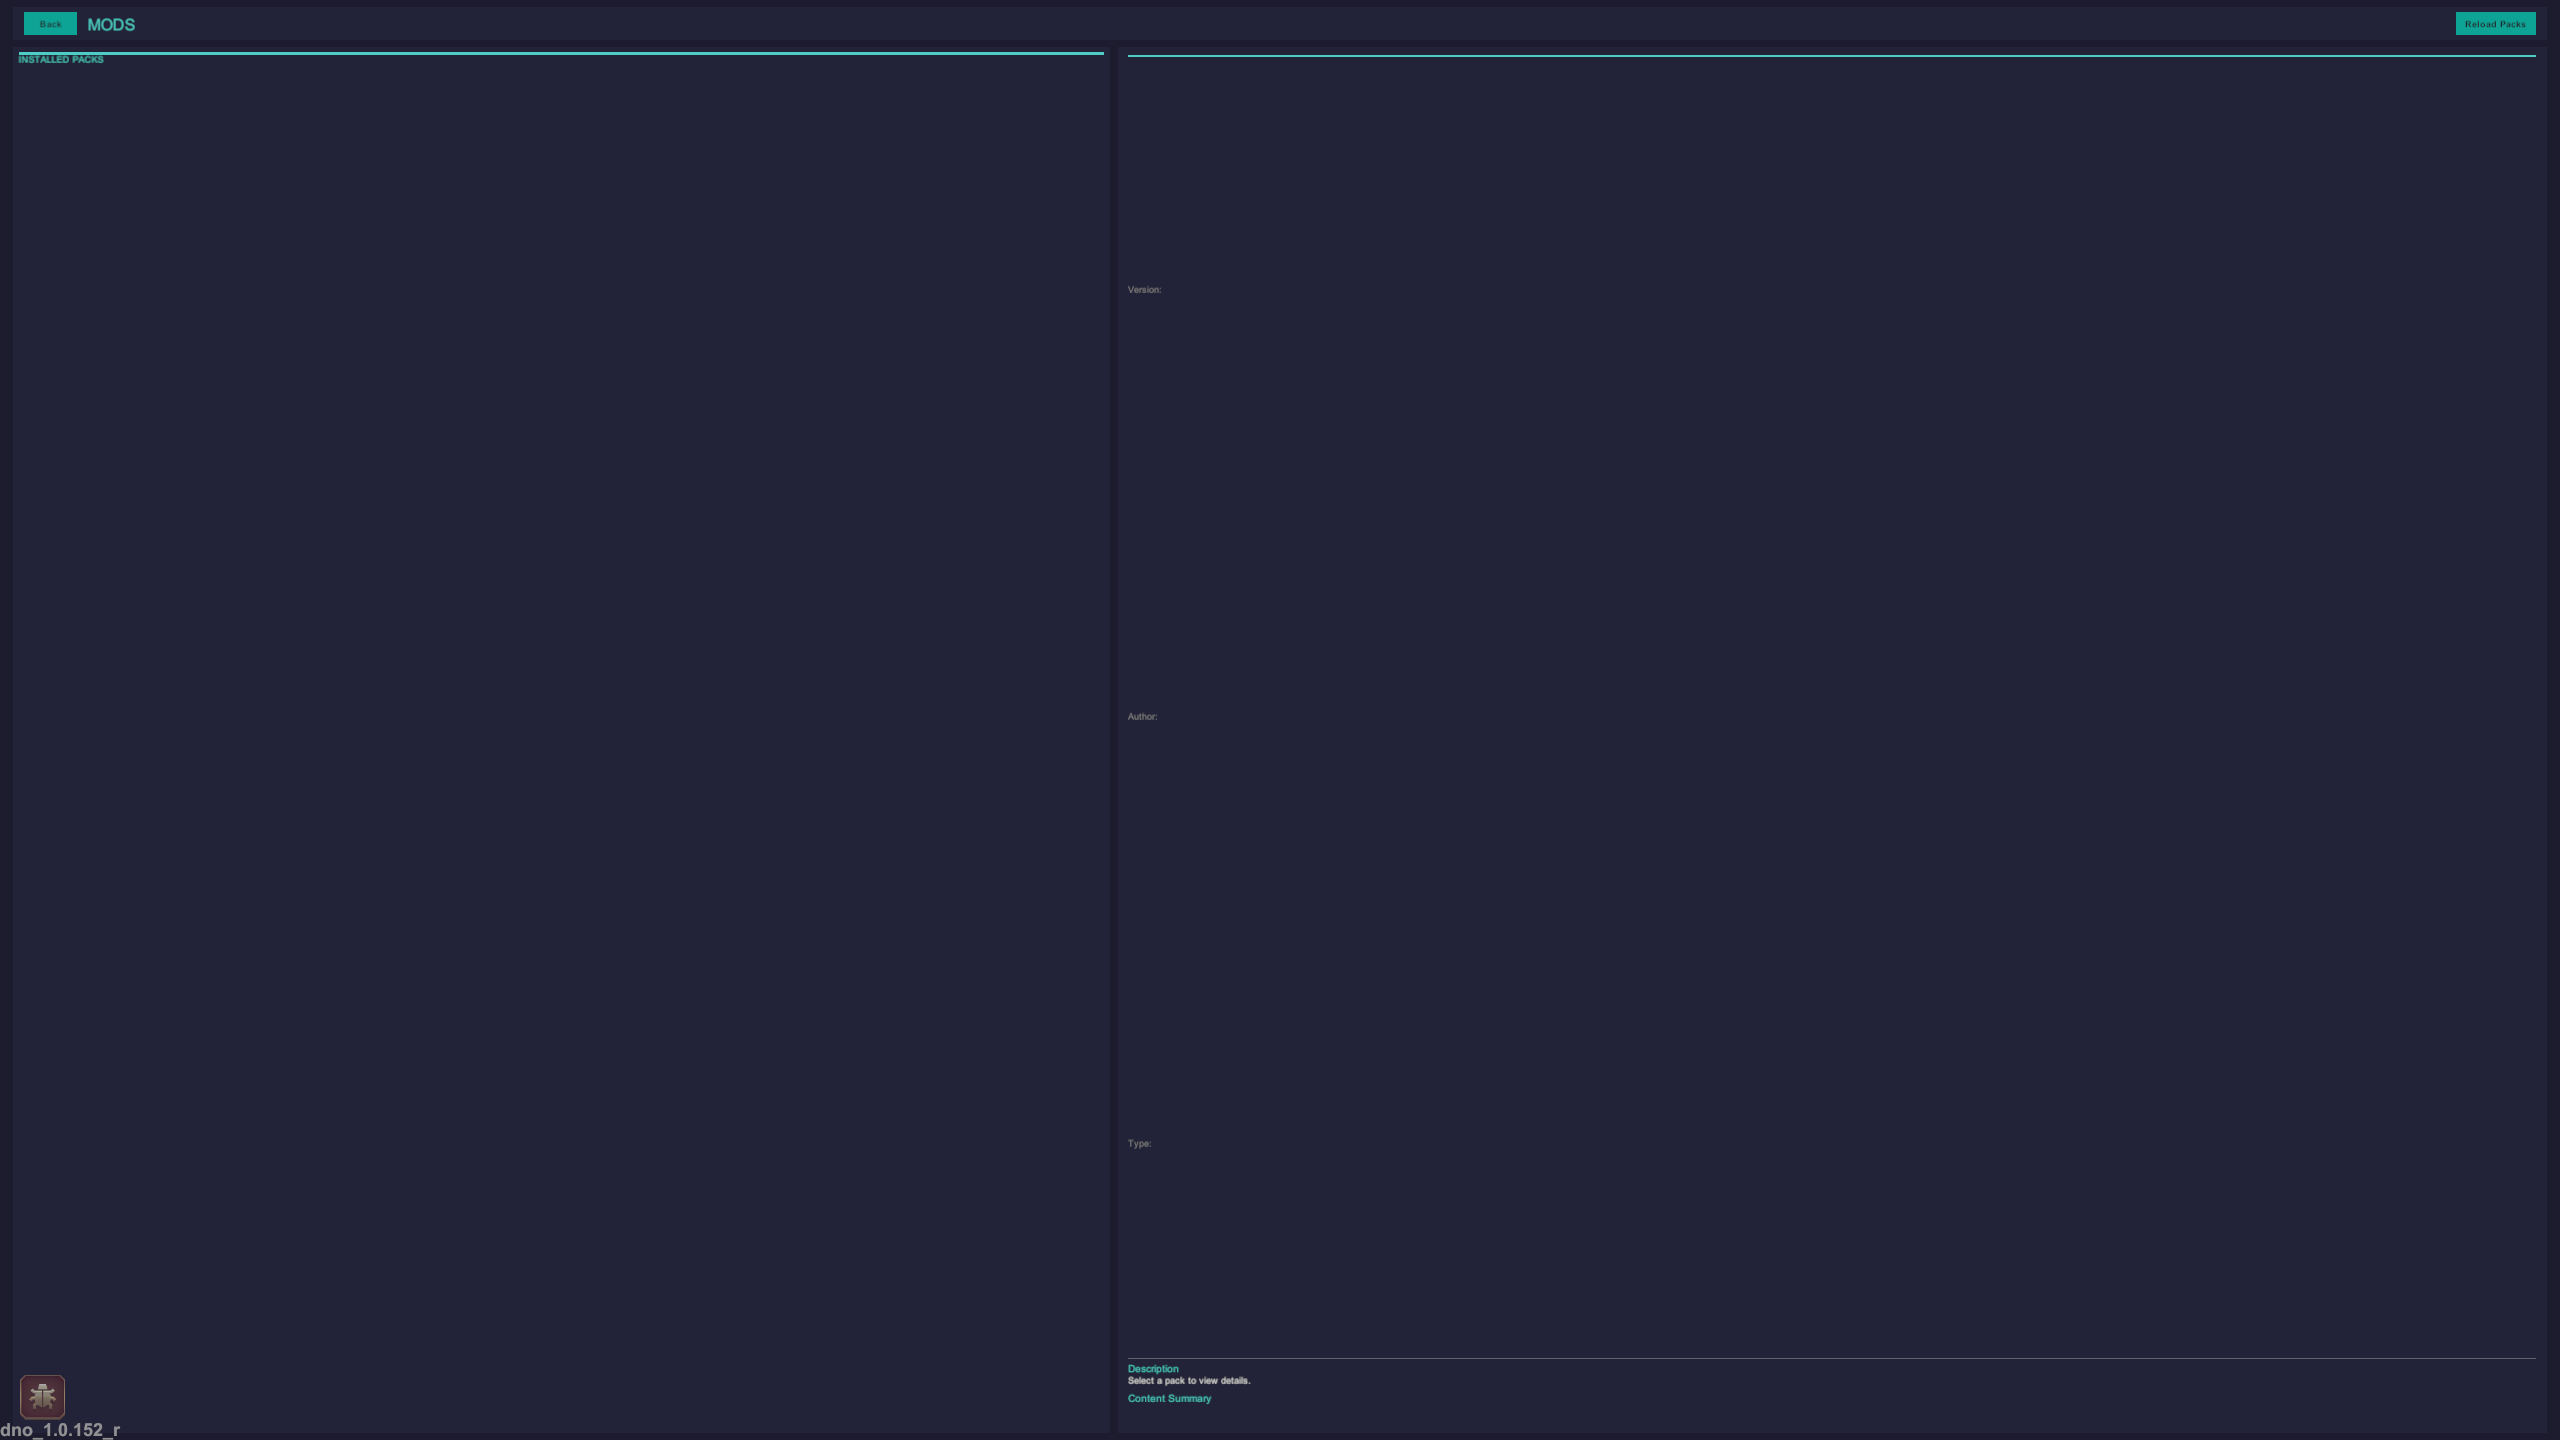
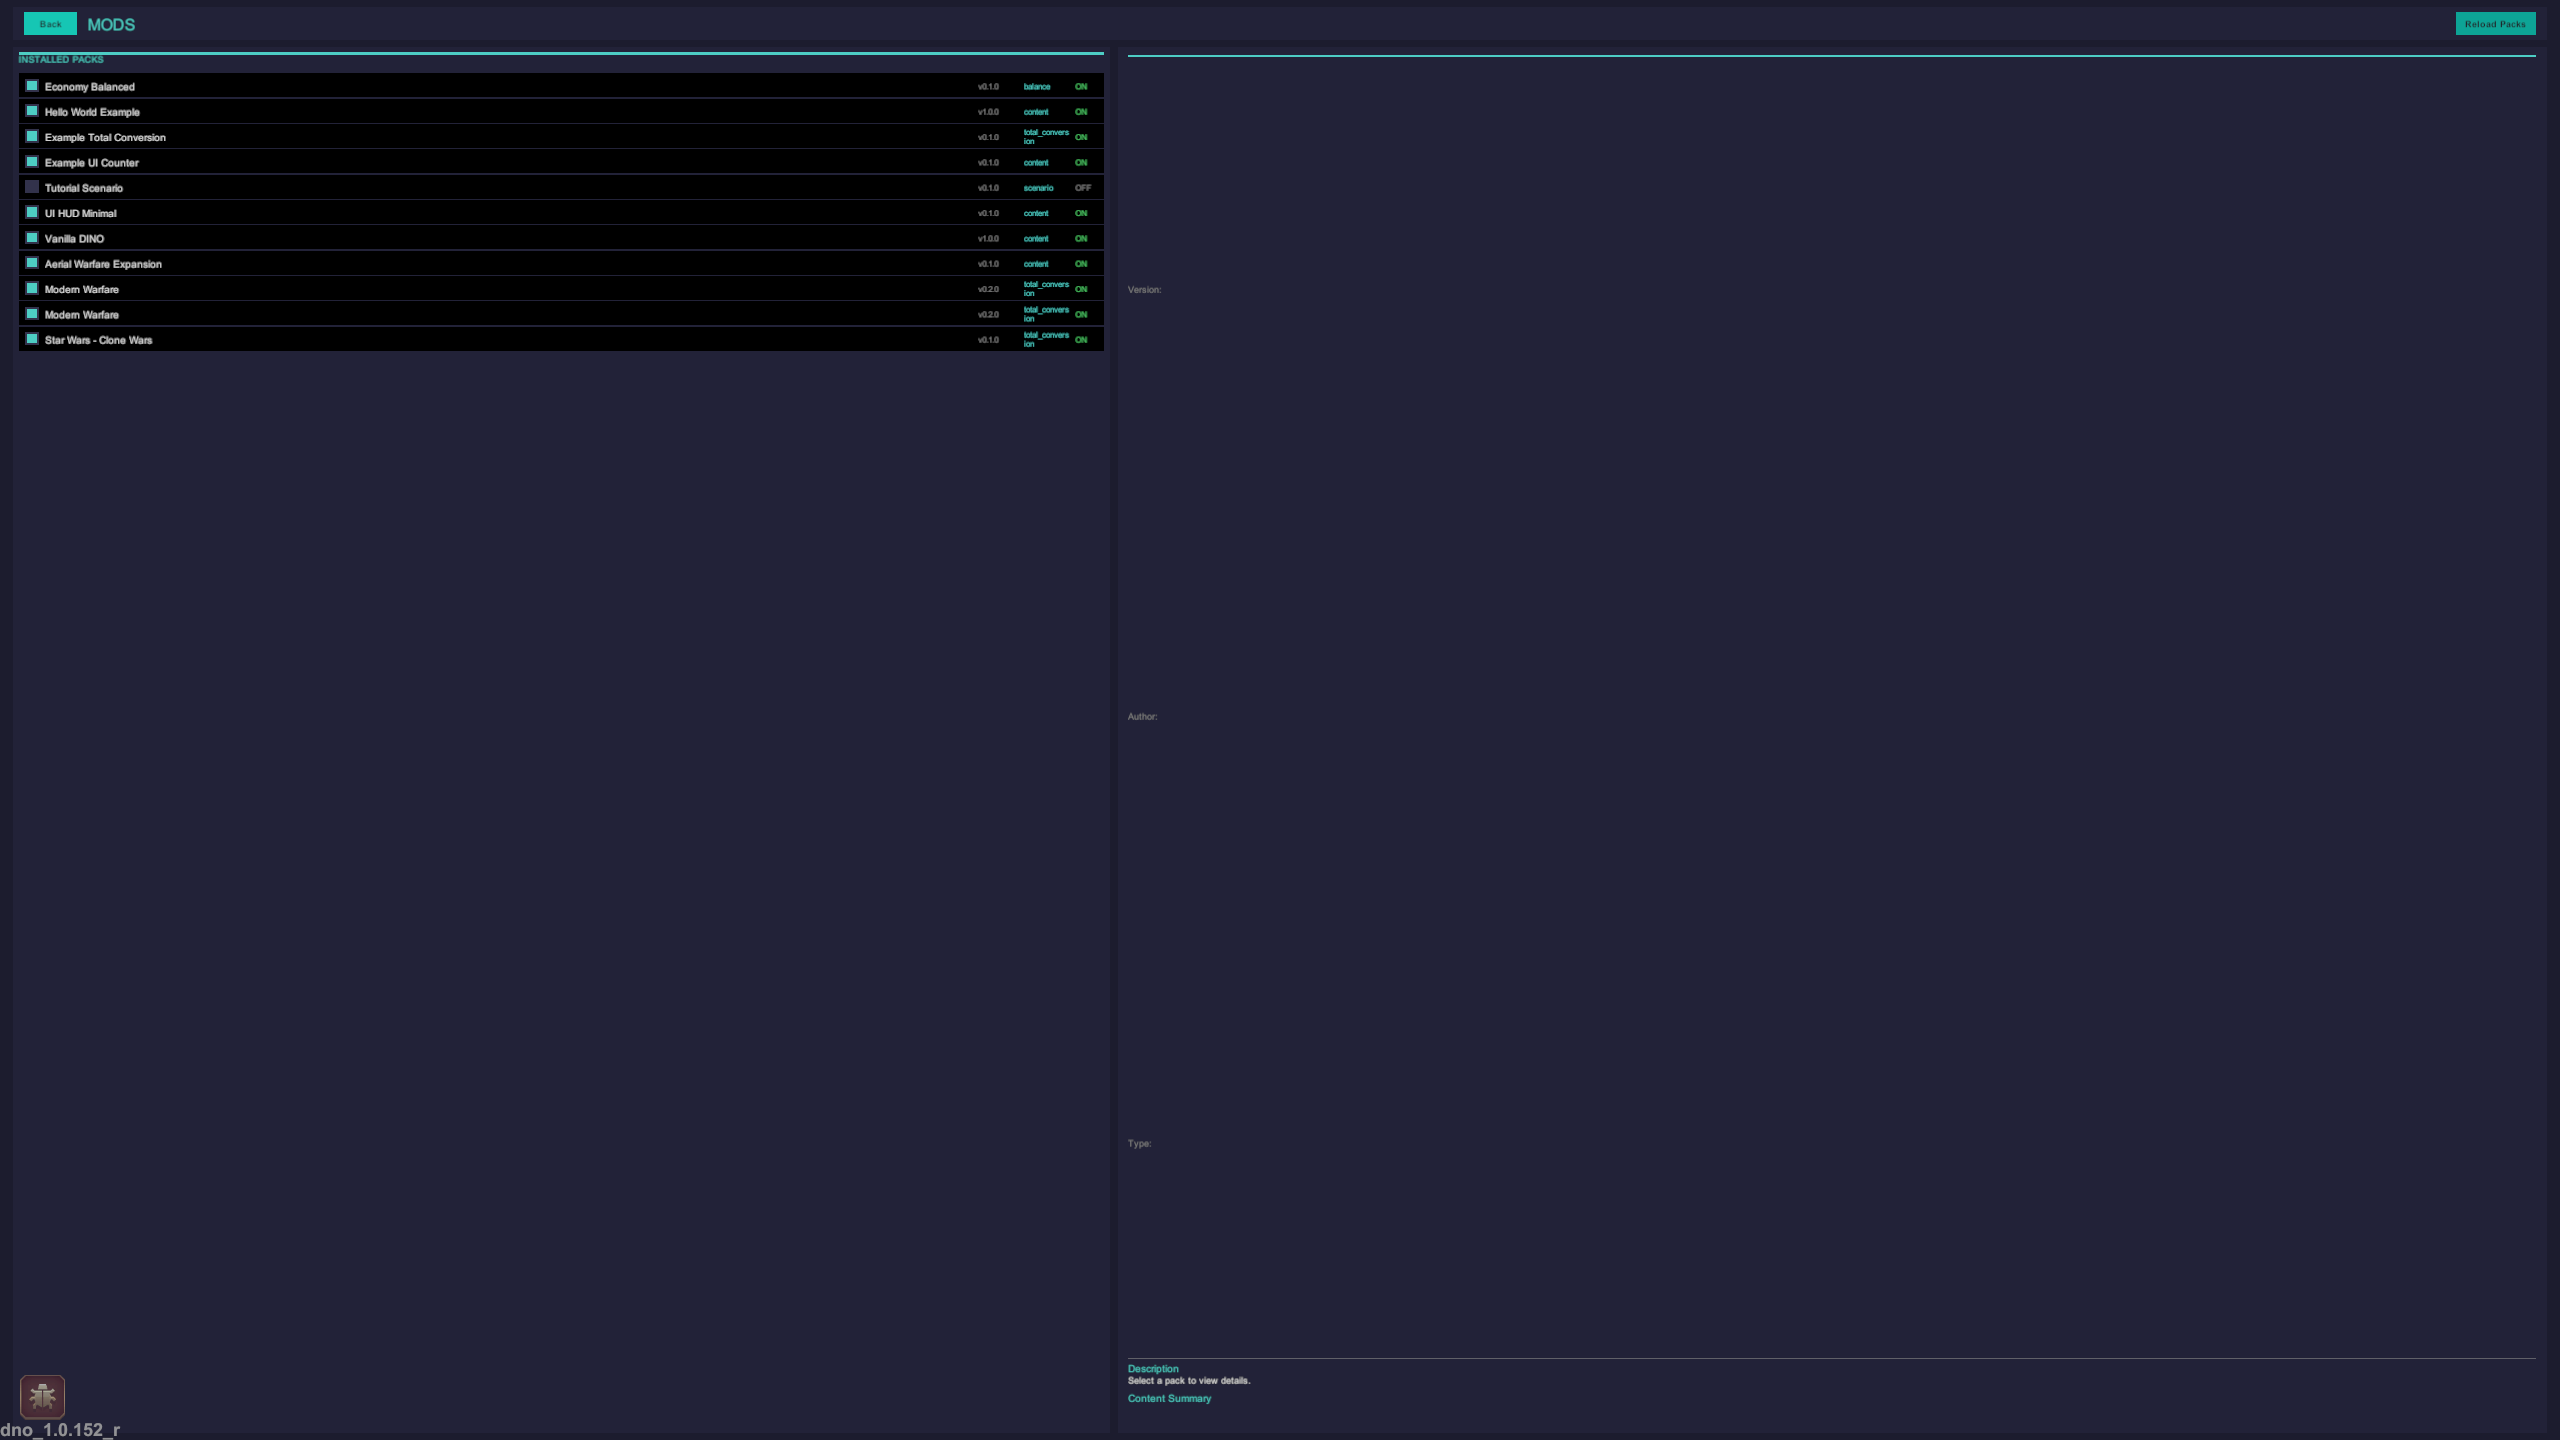
fix(ui): F9 debug panel blank body — viewport Mask stencil from transparent Image
The DebugPanel scroll viewport used a fully-transparent (alpha 0) Image with a
Mask. On the game's Mono build this produced an empty stencil that masked out
every child, so the panel rendered header-only with a blank body even though the
section content existed in the hierarchy. Give the viewport a near-invisible
alpha (0.004) so the Mask writes a valid stencil while staying unseen.

Changed region(s): [[0.0, 0.0, 0.4375, 0.25]]

diff --git a/src/Runtime/UI/DebugPanel.cs b/src/Runtime/UI/DebugPanel.cs
@@ -263,6 +263,14 @@ namespace DINOForge.Runtime.UI
             scrollRt.offsetMin = Vector2.zero;
             scrollRt.offsetMax = new Vector2(0f, -(HeaderHeight + 1f));
 
+            // Fix (iter-149): the viewport Mask needs a graphic that actually renders to
+            // produce a valid stencil; a fully transparent (alpha 0) Image can mask out ALL
+            // children on some Unity/Mono builds, leaving the panel body blank. Give it a
+            // near-invisible alpha so the stencil is written but the fill stays unseen.
+            Image viewportImage = scrollRect.GetComponent<Image>();
+            if (viewportImage != null)
+                viewportImage.color = new Color(0f, 0f, 0f, 0.004f);
+
             _scrollRect = scrollRect;
             _contentRoot = content;
             RefreshContent();